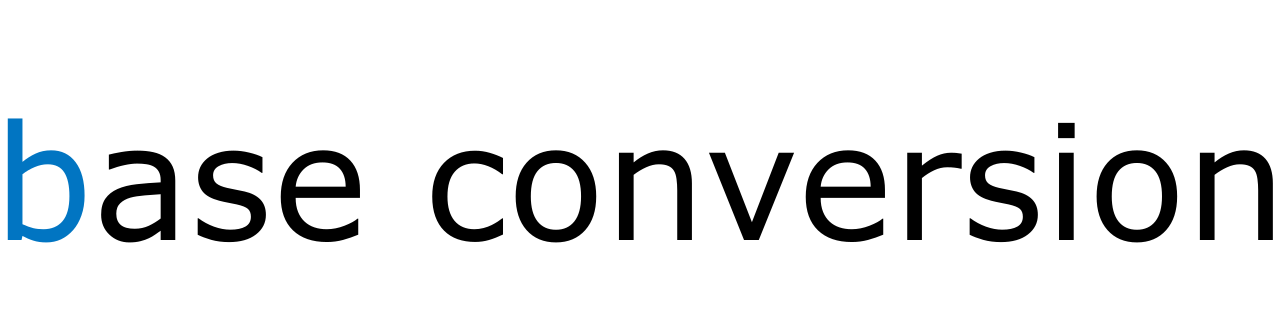
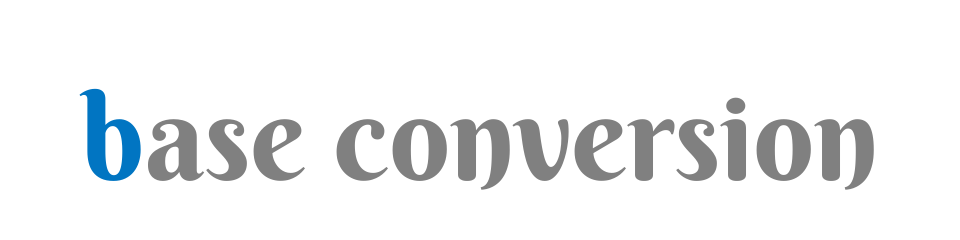
Modified font and color in .img/b.svg (0.1.1+1)

Changed region(s): [[0.0, 0.35, 1.0, 0.7875], [0.8125, 0.3792, 0.8438, 0.4375]]

diff --git a/README.md b/README.md
@@ -1,6 +1,6 @@
 # b - Base conversion
 
-![Base conversion](https://raw.githubusercontent.com/dkin-om/b/master/.img/b.png)
+[![Base conversion](https://raw.githubusercontent.com/dkin-om/b/master/.img/b.png)](https://github.com/dkin-om/b)
 
 [![Version](https://img.shields.io/pub/v/b)](https://pub.dev/packages/b)
 [![Build Status](https://travis-ci.com/dkin-om/b.svg?branch=master)](https://travis-ci.com/dkin-om/b)

diff --git a/CHANGELOG.md b/CHANGELOG.md
@@ -1,3 +1,7 @@
+## 0.1.1+1
+
+- Updated `README.md`
+
 ## 0.1.1
 
 - Exported standard alphabets
